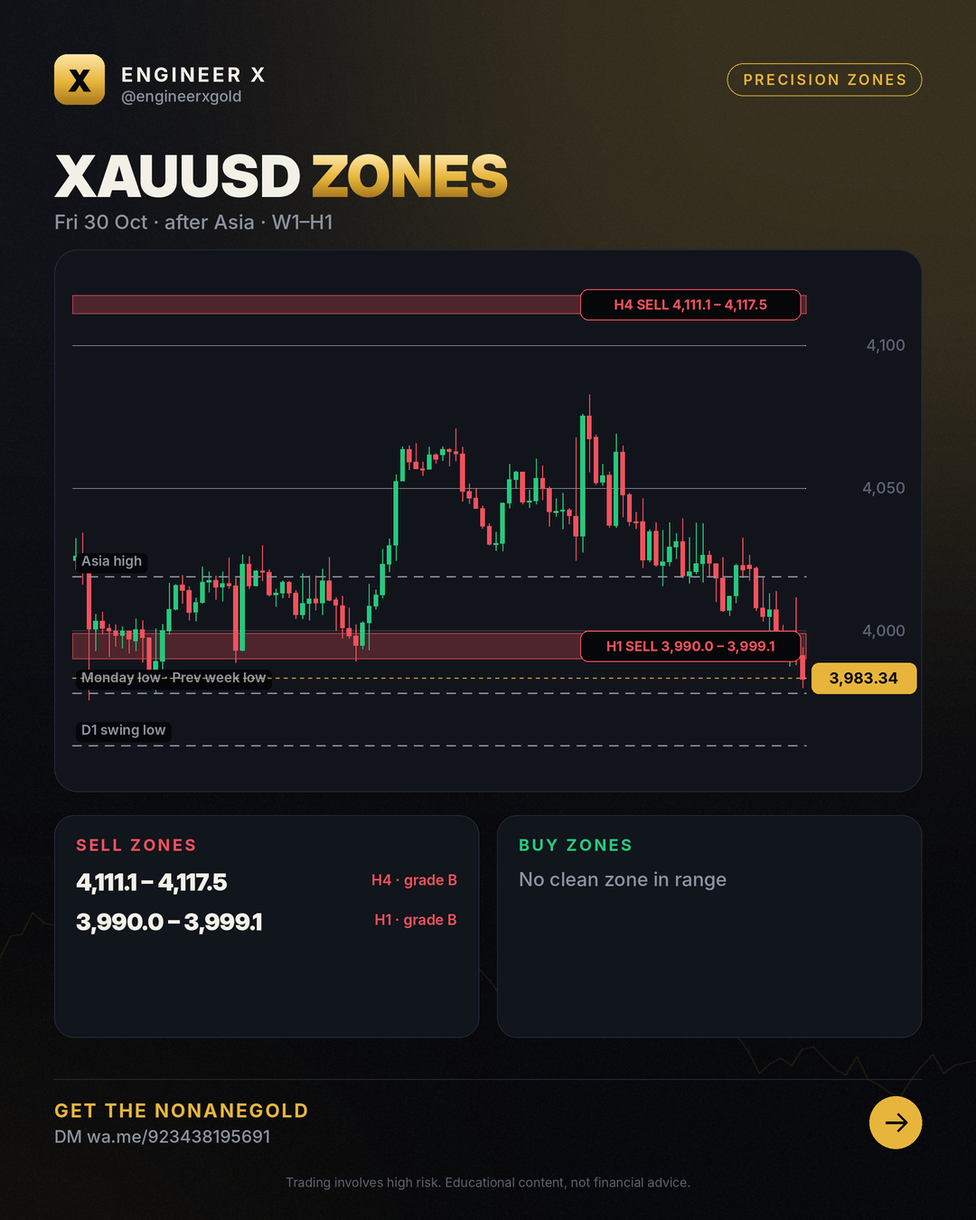
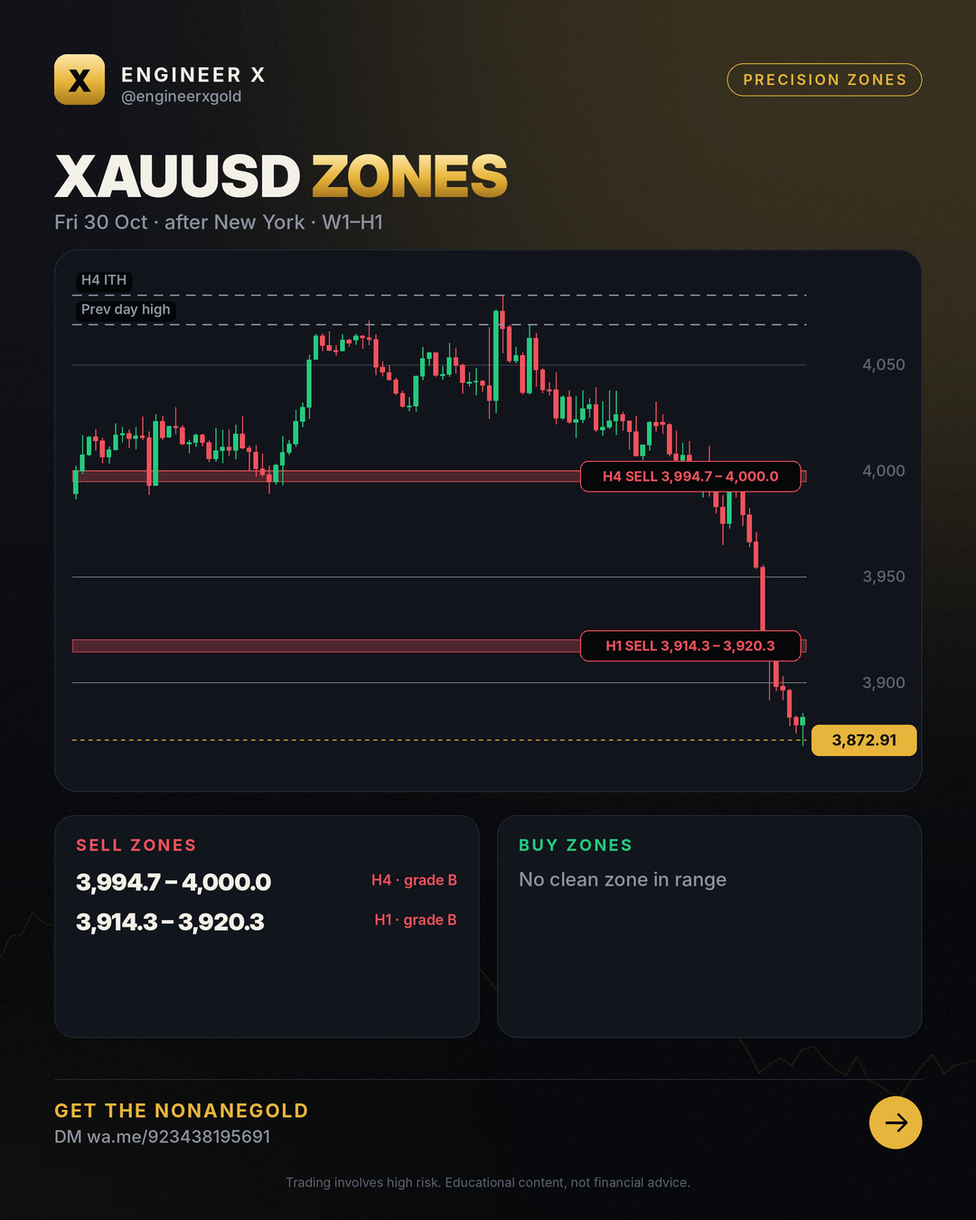
zones 2026-10-30 Fri 30 Oct · after New York · W1–H1

diff --git a/zones/index.html b/zones/index.html
@@ -4,7 +4,7 @@
 <meta charset="utf-8">
 <meta name="viewport" content="width=device-width,initial-scale=1">
 <title>XAUUSD Zones Today – Buy &amp; Sell Zones (H4, H1) | Engineer X</title>
-<meta name="description" content="XAUUSD buy and sell zones for 2026-10-30: tested W1, D1, H4 and H1 zones with invalidation levels, updated after the Asian, London and New York sessions. Price 3,983.34.">
+<meta name="description" content="XAUUSD buy and sell zones for 2026-10-30: tested W1, D1, H4 and H1 zones with invalidation levels, updated after the Asian, London and New York sessions. Price 3,872.91.">
 <meta name="robots" content="index,follow,max-image-preview:large,max-snippet:-1,max-video-preview:-1">
 <meta name="author" content="Engr. M Ahmad Mehmood">
 <link rel="canonical" href="https://engineerxgold.github.io/zones/">
@@ -12,7 +12,7 @@
 <link rel="apple-touch-icon" href="../img/logo.png">
 <meta property="og:site_name" content="Engineer X">
 <meta property="og:title" content="XAUUSD Zones Today – Buy &amp; Sell Zones (H4, H1) | Engineer X">
-<meta property="og:description" content="XAUUSD buy and sell zones for 2026-10-30: tested W1, D1, H4 and H1 zones with invalidation levels, updated after the Asian, London and New York sessions. Price 3,983.34.">
+<meta property="og:description" content="XAUUSD buy and sell zones for 2026-10-30: tested W1, D1, H4 and H1 zones with invalidation levels, updated after the Asian, London and New York sessions. Price 3,872.91.">
 <meta property="og:type" content="website">
 <meta property="og:url" content="https://engineerxgold.github.io/zones/">
 <meta property="og:image" content="https://engineerxgold.github.io/zones/img/2026-10-30.png">
@@ -22,7 +22,7 @@
 <meta property="og:locale" content="en_US">
 <meta name="twitter:card" content="summary_large_image">
 <meta name="twitter:title" content="XAUUSD Zones Today – Buy &amp; Sell Zones (H4, H1) | Engineer X">
-<meta name="twitter:description" content="XAUUSD buy and sell zones for 2026-10-30: tested W1, D1, H4 and H1 zones with invalidation levels, updated after the Asian, London and New York sessions. Price 3,983.34.">
+<meta name="twitter:description" content="XAUUSD buy and sell zones for 2026-10-30: tested W1, D1, H4 and H1 zones with invalidation levels, updated after the Asian, London and New York sessions. Price 3,872.91.">
 <meta name="twitter:image" content="https://engineerxgold.github.io/zones/img/2026-10-30.png">
 <meta name="twitter:image:alt" content="XAUUSD Zones Today – Buy &amp; Sell Zones (H4, H1) | Engineer X">
 
@@ -101,7 +101,7 @@ footer .fl a{color:var(--muted);margin-right:16px}
 <div class="wrap">
 <nav><a class="logo" href="../"><b>X</b>Engineer X</a>
 <div class="links"><a href="../zones/">Daily Zones</a><a href="../blog/">Learn</a><a href="../ea/">Gold EA</a><a href="../about/">About</a><a class="cta" href="https://wa.me/923438195691">Get the EA</a></div></nav>
-<section class="hero"><span class="chip">Updated Fri 30 Oct · after Asia · W1–H1</span><h1>XAUUSD <span class="gold">precision zones</span></h1><p>XAUUSD buy and sell zones for 2026-10-30: tested W1, D1, H4 and H1 zones with invalidation levels, updated after the Asian, London and New York sessions. Price 3,983.34.</p></section><img src="img/2026-10-30.png" alt="Latest XAUUSD zone map" width="1080" height="1350"><section><h2>Current zones</h2><div style="overflow-x:auto"><table style="width:100%;border-collapse:collapse;font-size:15px"><tr><th align=left>Zone</th><th align=left>Price band</th><th>Grade</th><th align=left>Invalid</th><th align=left>Why</th></tr><tr><td>H4 sell</td><td><b>4,111.06 – 4,117.52</b></td><td>B</td><td>above 4,119.03</td><td>MSNR resistance levels (fresh): 4H GAP 4113.34, 1H OCL 4115.24. Wrong if price trades above 4119.03.; Confluence score 2: MSNR + ICT</td></tr><tr><td>H1 sell</td><td><b>3,990.02 – 3,999.06</b></td><td>B</td><td>above 4,000.57</td><td>MSNR resistance levels (fresh): 1H A 3996.78, 30m A 3992.30, 30m OCL 3996.78, 15m A 3992.30. Wrong if price trades above 4000.57.; Confluence score 4: MSNR + IC</td></tr></table></div></section><section><h2>Honest scorecard</h2><div class="grid"><div class="card"><div class="n">210</div><p>zones published (30 days)</p></div><div class="card"><div class="n">110</div><p>held (moved 1 hourly ATR away)</p></div><div class="card"><div class="n">18</div><p>broke (traded beyond the invalidation)</p></div><div class="card"><div class="n">86%</div><p>hold rate of decided zones</p></div></div></section><div class="ctabox"><h3>🤖 Trade the zones with the NonaneGold</h3><p>Free signals group access + setup help Message us and we will help you set it up.</p><div class="btns"><a class="btn gold" href="https://wa.me/923438195691">Get the EA on Telegram</a><a class="btn ghost" href="../ea/">About the EA</a></div></div><section><h2>Archive</h2><div class="grid posts"><a class="card" href="2026-10-30/"><span class="date">2026-10-30</span><h3>XAUUSD zones 2026-10-30</h3></a><a class="card" href="2026-10-29/"><span class="date">2026-10-29</span><h3>XAUUSD zones 2026-10-29</h3></a><a class="card" href="2026-10-28/"><span class="date">2026-10-28</span><h3>XAUUSD zones 2026-10-28</h3></a><a class="card" href="2026-10-27/"><span class="date">2026-10-27</span><h3>XAUUSD zones 2026-10-27</h3></a><a class="card" href="2026-10-26/"><span class="date">2026-10-26</span><h3>XAUUSD zones 2026-10-26</h3></a><a class="card" href="2026-10-23/"><span class="date">2026-10-23</span><h3>XAUUSD zones 2026-10-23</h3></a><a class="card" href="2026-10-22/"><span class="date">2026-10-22</span><h3>XAUUSD zones 2026-10-22</h3></a><a class="card" href="2026-10-21/"><span class="date">2026-10-21</span><h3>XAUUSD zones 2026-10-21</h3></a><a class="card" href="2026-10-20/"><span class="date">2026-10-20</span><h3>XAUUSD zones 2026-10-20</h3></a><a class="card" href="2026-10-19/"><span class="date">2026-10-19</span><h3>XAUUSD zones 2026-10-19</h3></a><a class="card" href="2026-10-16/"><span class="date">2026-10-16</span><h3>XAUUSD zones 2026-10-16</h3></a><a class="card" href="2026-10-15/"><span class="date">2026-10-15</span><h3>XAUUSD zones 2026-10-15</h3></a><a class="card" href="2026-10-14/"><span class="date">2026-10-14</span><h3>XAUUSD zones 2026-10-14</h3></a><a class="card" href="2026-10-13/"><span class="date">2026-10-13</span><h3>XAUUSD zones 2026-10-13</h3></a></div></section>
+<section class="hero"><span class="chip">Updated Fri 30 Oct · after New York · W1–H1</span><h1>XAUUSD <span class="gold">precision zones</span></h1><p>XAUUSD buy and sell zones for 2026-10-30: tested W1, D1, H4 and H1 zones with invalidation levels, updated after the Asian, London and New York sessions. Price 3,872.91.</p></section><img src="img/2026-10-30.png" alt="Latest XAUUSD zone map" width="1080" height="1350"><section><h2>Current zones</h2><div style="overflow-x:auto"><table style="width:100%;border-collapse:collapse;font-size:15px"><tr><th align=left>Zone</th><th align=left>Price band</th><th>Grade</th><th align=left>Invalid</th><th align=left>Why</th></tr><tr><td>H4 sell</td><td><b>3,994.68 – 4,000.04</b></td><td>B</td><td>above 4,001.83</td><td>MSNR resistance level (fresh): 4H A 3997.36. Wrong if price trades above 4001.83.; Confluence score 3: MSNR + ICT + PA</td></tr><tr><td>H1 sell</td><td><b>3,914.27 – 3,920.35</b></td><td>B</td><td>above 3,922.14</td><td>MSNR resistance levels (fresh): 1H GAP 3917.67, 30m A 3917.67, 15m OCL 3916.95, 15m A 3917.67. Wrong if price trades above 3922.14.; Confluence score 2: MSNR + </td></tr></table></div></section><section><h2>Honest scorecard</h2><div class="grid"><div class="card"><div class="n">212</div><p>zones published (30 days)</p></div><div class="card"><div class="n">111</div><p>held (moved 1 hourly ATR away)</p></div><div class="card"><div class="n">18</div><p>broke (traded beyond the invalidation)</p></div><div class="card"><div class="n">86%</div><p>hold rate of decided zones</p></div></div></section><div class="ctabox"><h3>🤖 Trade the zones with the NonaneGold</h3><p>Free signals group access + setup help Message us and we will help you set it up.</p><div class="btns"><a class="btn gold" href="https://wa.me/923438195691">Get the EA on Telegram</a><a class="btn ghost" href="../ea/">About the EA</a></div></div><section><h2>Archive</h2><div class="grid posts"><a class="card" href="2026-10-30/"><span class="date">2026-10-30</span><h3>XAUUSD zones 2026-10-30</h3></a><a class="card" href="2026-10-29/"><span class="date">2026-10-29</span><h3>XAUUSD zones 2026-10-29</h3></a><a class="card" href="2026-10-28/"><span class="date">2026-10-28</span><h3>XAUUSD zones 2026-10-28</h3></a><a class="card" href="2026-10-27/"><span class="date">2026-10-27</span><h3>XAUUSD zones 2026-10-27</h3></a><a class="card" href="2026-10-26/"><span class="date">2026-10-26</span><h3>XAUUSD zones 2026-10-26</h3></a><a class="card" href="2026-10-23/"><span class="date">2026-10-23</span><h3>XAUUSD zones 2026-10-23</h3></a><a class="card" href="2026-10-22/"><span class="date">2026-10-22</span><h3>XAUUSD zones 2026-10-22</h3></a><a class="card" href="2026-10-21/"><span class="date">2026-10-21</span><h3>XAUUSD zones 2026-10-21</h3></a><a class="card" href="2026-10-20/"><span class="date">2026-10-20</span><h3>XAUUSD zones 2026-10-20</h3></a><a class="card" href="2026-10-19/"><span class="date">2026-10-19</span><h3>XAUUSD zones 2026-10-19</h3></a><a class="card" href="2026-10-16/"><span class="date">2026-10-16</span><h3>XAUUSD zones 2026-10-16</h3></a><a class="card" href="2026-10-15/"><span class="date">2026-10-15</span><h3>XAUUSD zones 2026-10-15</h3></a><a class="card" href="2026-10-14/"><span class="date">2026-10-14</span><h3>XAUUSD zones 2026-10-14</h3></a><a class="card" href="2026-10-13/"><span class="date">2026-10-13</span><h3>XAUUSD zones 2026-10-13</h3></a></div></section>
 <footer>
 <div class="warn"><b>Risk warning:</b> Trading gold, forex and CFDs carries a high risk of losing money and is not suitable for everyone. Past results do not guarantee future results. Everything on this site is educational and not financial advice. We are an introducing partner of our broker and may earn a commission on accounts opened through our link.</div>
 <p class="fl" style="margin-top:18px"><a href="../about/">About &amp; methodology</a><a href="../privacy.html">Privacy</a><a href="../terms.html">Terms &amp; risk disclosure</a><a href="../feed.xml">RSS</a><a href="https://t.me/engineerxgold">Telegram</a></p>

diff --git a/zones/2026-10-30/index.html b/zones/2026-10-30/index.html
@@ -4,7 +4,7 @@
 <meta charset="utf-8">
 <meta name="viewport" content="width=device-width,initial-scale=1">
 <title>Gold Price Today – 30 Oct 2026 (W1–H1)</title>
-<meta name="description" content="XAUUSD buy and sell zones for 2026-10-30: tested W1, D1, H4 and H1 zones with invalidation levels, updated after the Asian, London and New York sessions. Price 3,983.34.">
+<meta name="description" content="XAUUSD buy and sell zones for 2026-10-30: tested W1, D1, H4 and H1 zones with invalidation levels, updated after the Asian, London and New York sessions. Price 3,872.91.">
 <meta name="robots" content="index,follow,max-image-preview:large,max-snippet:-1,max-video-preview:-1">
 <meta name="author" content="Engr. M Ahmad Mehmood">
 <link rel="canonical" href="https://engineerxgold.github.io/zones/2026-10-30/">
@@ -12,7 +12,7 @@
 <link rel="apple-touch-icon" href="../../img/logo.png">
 <meta property="og:site_name" content="Engineer X">
 <meta property="og:title" content="Gold Price Today – 30 Oct 2026 (W1–H1)">
-<meta property="og:description" content="XAUUSD buy and sell zones for 2026-10-30: tested W1, D1, H4 and H1 zones with invalidation levels, updated after the Asian, London and New York sessions. Price 3,983.34.">
+<meta property="og:description" content="XAUUSD buy and sell zones for 2026-10-30: tested W1, D1, H4 and H1 zones with invalidation levels, updated after the Asian, London and New York sessions. Price 3,872.91.">
 <meta property="og:type" content="article">
 <meta property="og:url" content="https://engineerxgold.github.io/zones/2026-10-30/">
 <meta property="og:image" content="https://engineerxgold.github.io/zones/img/2026-10-30.png">
@@ -22,7 +22,7 @@
 <meta property="og:locale" content="en_US">
 <meta name="twitter:card" content="summary_large_image">
 <meta name="twitter:title" content="Gold Price Today – 30 Oct 2026 (W1–H1)">
-<meta name="twitter:description" content="XAUUSD buy and sell zones for 2026-10-30: tested W1, D1, H4 and H1 zones with invalidation levels, updated after the Asian, London and New York sessions. Price 3,983.34.">
+<meta name="twitter:description" content="XAUUSD buy and sell zones for 2026-10-30: tested W1, D1, H4 and H1 zones with invalidation levels, updated after the Asian, London and New York sessions. Price 3,872.91.">
 <meta name="twitter:image" content="https://engineerxgold.github.io/zones/img/2026-10-30.png">
 <meta name="twitter:image:alt" content="Gold Price Today – 30 Oct 2026 (W1–H1)">
 
@@ -32,7 +32,7 @@
 <link rel="preconnect" href="https://fonts.googleapis.com">
 <link rel="preconnect" href="https://fonts.gstatic.com" crossorigin>
 <link href="https://fonts.googleapis.com/css2?family=Inter:wght@400;500;600;800;900&display=swap" rel="stylesheet">
-<script type="application/ld+json">{"@context": "https://schema.org", "@type": "Organization", "@id": "https://engineerxgold.github.io/#organization", "name": "Engineer X", "url": "https://engineerxgold.github.io/", "logo": {"@type": "ImageObject", "url": "https://engineerxgold.github.io/img/logo.png", "width": 512, "height": 512}, "sameAs": ["https://t.me/engineerxgold"]}</script><script type="application/ld+json">{"@context": "https://schema.org", "@type": "Article", "headline": "Gold Price Today – 30 Oct 2026 (W1–H1)", "datePublished": "2026-10-30T08:00:00+05:00", "dateModified": "2026-10-30T12:04:19+05:00", "author": {"@type": "Person", "@id": "https://engineerxgold.github.io/about/#author", "name": "Engr. M Ahmad Mehmood", "url": "https://engineerxgold.github.io/about/", "jobTitle": "MQL5 Expert Advisor developer and gold market analyst", "worksFor": {"@id": "https://engineerxgold.github.io/#organization"}}, "publisher": {"@id": "https://engineerxgold.github.io/#organization"}, "image": "https://engineerxgold.github.io/zones/img/2026-10-30.png", "mainEntityOfPage": "https://engineerxgold.github.io/zones/2026-10-30/"}</script>
+<script type="application/ld+json">{"@context": "https://schema.org", "@type": "Organization", "@id": "https://engineerxgold.github.io/#organization", "name": "Engineer X", "url": "https://engineerxgold.github.io/", "logo": {"@type": "ImageObject", "url": "https://engineerxgold.github.io/img/logo.png", "width": 512, "height": 512}, "sameAs": ["https://t.me/engineerxgold"]}</script><script type="application/ld+json">{"@context": "https://schema.org", "@type": "Article", "headline": "Gold Price Today – 30 Oct 2026 (W1–H1)", "datePublished": "2026-10-30T08:00:00+05:00", "dateModified": "2026-10-31T02:03:04+05:00", "author": {"@type": "Person", "@id": "https://engineerxgold.github.io/about/#author", "name": "Engr. M Ahmad Mehmood", "url": "https://engineerxgold.github.io/about/", "jobTitle": "MQL5 Expert Advisor developer and gold market analyst", "worksFor": {"@id": "https://engineerxgold.github.io/#organization"}}, "publisher": {"@id": "https://engineerxgold.github.io/#organization"}, "image": "https://engineerxgold.github.io/zones/img/2026-10-30.png", "mainEntityOfPage": "https://engineerxgold.github.io/zones/2026-10-30/"}</script>
 
 <style>
 :root{--gold:#E7B53B;--gold-hi:#FFE7A8;--bg:#07080B;--bg2:#0E1016;--panel:#12151D;--line:#232836;--green:#25C97D;--red:#F0525C;--text:#F3F0E8;--muted:#8C93A1}
@@ -101,7 +101,7 @@ footer .fl a{color:var(--muted);margin-right:16px}
 <div class="wrap">
 <nav><a class="logo" href="../../"><b>X</b>Engineer X</a>
 <div class="links"><a href="../../zones/">Daily Zones</a><a href="../../blog/">Learn</a><a href="../../ea/">Gold EA</a><a href="../../about/">About</a><a class="cta" href="https://wa.me/923438195691">Get the EA</a></div></nav>
-<article><p class="crumbs"><a href="../../">Home</a> › <a href="../">Zones</a> › 2026-10-30</p><h1>Gold Price Today – 30 Oct 2026 (W1–H1)</h1><p class="byline">Fri 30 Oct · after Asia · W1–H1 · by Engr. M Ahmad Mehmood</p><img src="../img/2026-10-30.png" alt="XAUUSD zone map 2026-10-30" width="1080" height="1350" loading="eager"><h2>Zones</h2><div style="overflow-x:auto"><table style="width:100%;border-collapse:collapse;font-size:15px"><tr><th align=left>Zone</th><th align=left>Price band</th><th>Grade</th><th align=left>Invalid</th><th align=left>Why</th></tr><tr><td>H4 sell</td><td><b>4,111.06 – 4,117.52</b></td><td>B</td><td>above 4,119.03</td><td>MSNR resistance levels (fresh): 4H GAP 4113.34, 1H OCL 4115.24. Wrong if price trades above 4119.03.; Confluence score 2: MSNR + ICT</td></tr><tr><td>H1 sell</td><td><b>3,990.02 – 3,999.06</b></td><td>B</td><td>above 4,000.57</td><td>MSNR resistance levels (fresh): 1H A 3996.78, 30m A 3992.30, 30m OCL 3996.78, 15m A 3992.30. Wrong if price trades above 4000.57.; Confluence score 4: MSNR + IC</td></tr></table></div><h2>How to read this map</h2><p>Bands are where price is expected to react; they are not entries. Trading beyond the invalidation price ends the zone; each zone counts once (first touch). Highs and lows listed as liquidity are targets: on 10 years of gold price ran through them more often than through random levels.</p><div class="ctabox"><h3>🤖 Trade the zones with the NonaneGold</h3><p>Free signals group access + setup help Message us and we will help you set it up.</p><div class="btns"><a class="btn gold" href="https://wa.me/923438195691">Get the EA on Telegram</a><a class="btn ghost" href="../../ea/">About the EA</a></div></div></article>
+<article><p class="crumbs"><a href="../../">Home</a> › <a href="../">Zones</a> › 2026-10-30</p><h1>Gold Price Today – 30 Oct 2026 (W1–H1)</h1><p class="byline">Fri 30 Oct · after New York · W1–H1 · by Engr. M Ahmad Mehmood</p><img src="../img/2026-10-30.png" alt="XAUUSD zone map 2026-10-30" width="1080" height="1350" loading="eager"><h2>Zones</h2><div style="overflow-x:auto"><table style="width:100%;border-collapse:collapse;font-size:15px"><tr><th align=left>Zone</th><th align=left>Price band</th><th>Grade</th><th align=left>Invalid</th><th align=left>Why</th></tr><tr><td>H4 sell</td><td><b>3,994.68 – 4,000.04</b></td><td>B</td><td>above 4,001.83</td><td>MSNR resistance level (fresh): 4H A 3997.36. Wrong if price trades above 4001.83.; Confluence score 3: MSNR + ICT + PA</td></tr><tr><td>H1 sell</td><td><b>3,914.27 – 3,920.35</b></td><td>B</td><td>above 3,922.14</td><td>MSNR resistance levels (fresh): 1H GAP 3917.67, 30m A 3917.67, 15m OCL 3916.95, 15m A 3917.67. Wrong if price trades above 3922.14.; Confluence score 2: MSNR + </td></tr></table></div><h2>How to read this map</h2><p>Bands are where price is expected to react; they are not entries. Trading beyond the invalidation price ends the zone; each zone counts once (first touch). Highs and lows listed as liquidity are targets: on 10 years of gold price ran through them more often than through random levels.</p><div class="ctabox"><h3>🤖 Trade the zones with the NonaneGold</h3><p>Free signals group access + setup help Message us and we will help you set it up.</p><div class="btns"><a class="btn gold" href="https://wa.me/923438195691">Get the EA on Telegram</a><a class="btn ghost" href="../../ea/">About the EA</a></div></div></article>
 <footer>
 <div class="warn"><b>Risk warning:</b> Trading gold, forex and CFDs carries a high risk of losing money and is not suitable for everyone. Past results do not guarantee future results. Everything on this site is educational and not financial advice. We are an introducing partner of our broker and may earn a commission on accounts opened through our link.</div>
 <p class="fl" style="margin-top:18px"><a href="../../about/">About &amp; methodology</a><a href="../../privacy.html">Privacy</a><a href="../../terms.html">Terms &amp; risk disclosure</a><a href="../../feed.xml">RSS</a><a href="https://t.me/engineerxgold">Telegram</a></p>

diff --git a/index.html b/index.html
@@ -101,7 +101,7 @@ footer .fl a{color:var(--muted);margin-right:16px}
 <div class="wrap">
 <nav><a class="logo" href="./"><b>X</b>Engineer X</a>
 <div class="links"><a href="./zones/">Daily Zones</a><a href="./blog/">Learn</a><a href="./ea/">Gold EA</a><a href="./about/">About</a><a class="cta" href="https://wa.me/923438195691">Get the EA</a></div></nav>
-<section class="hero"><span class="chip">XAUUSD · W1–H1 · every session</span><h1>Gold <span class="gold">precision zones</span>, updated after every session</h1><p>Tested buy and sell zones with clear invalidation, a scorecard of every result, and the NonaneGold for traders who want it automated.</p><div class="btns"><a class="btn gold" href="zones/">See today's zones</a><a class="btn ghost" href="https://wa.me/923438195691">Get the EA</a></div></section><section><h2>Latest map Fri 30 Oct · after Asia · W1–H1</h2><img src="zones/img/2026-10-30.png" alt="Latest XAUUSD zones" width="1080" height="1350"></section><div class="ctabox"><h3>🤖 Trade the zones with the NonaneGold</h3><p>Free signals group access + setup help Message us and we will help you set it up.</p><div class="btns"><a class="btn gold" href="https://wa.me/923438195691">Get the EA on Telegram</a><a class="btn ghost" href="ea/">About the EA</a></div></div><section><h2>Learn</h2><div class="grid posts"><a class="card" href="blog/gold-price-today-live-technical-levels-zone-map/"><span class="date">2026-10-30</span><h3>Gold Price Today: Live Technical Levels &amp; Zone Map</h3></a><a class="card" href="blog/gold-trading-h4-trend-zones-liquidity-map/"><span class="date">2026-10-29</span><h3>Gold Trading: H4 Trend Zones &amp; Liquidity Map</h3></a><a class="card" href="blog/gold-trading-analyzing-today-s-zones-liquidity/"><span class="date">2026-10-28</span><h3>Gold Trading: Analyzing Today&#x27;s Zones &amp; Liquidity</h3></a><a class="card" href="blog/xauusd-analysis-key-gold-trading-zones-liquidity/"><span class="date">2026-10-27</span><h3>XAUUSD Analysis: Key Gold Trading Zones &amp; Liquidity</h3></a><a class="card" href="blog/gold-supply-and-demand-zones-for-xauusd-traders/"><span class="date">2026-10-26</span><h3>Gold supply and demand zones for XAUUSD traders</h3></a><a class="card" href="blog/xauusd-price-navigating-key-zones-and-liquidity/"><span class="date">2026-10-24</span><h3>xauusd price: Navigating Key Zones and Liquidity</h3></a></div></section><section><h2>FAQ</h2><details><summary>What is a precision zone?</summary><p>A point of interest from a trading book (OTE 0.705, balanced price range, weekly close level, daily order block) that held better than random levels on 10 years of gold. Each zone has an invalidation price.</p></details><details><summary>How often are the zones updated?</summary><p>A daily plan at the Asian open, then after the Asian, London and New York sessions.</p></details><details><summary>Are these trade signals?</summary><p>No. Zones are areas to watch. Wait for your own confirmation and manage risk.</p></details><details><summary>How do I get the Gold EA?</summary><p>Message us on Telegram or WhatsApp; we answer and help with the setup.</p></details></section>
+<section class="hero"><span class="chip">XAUUSD · W1–H1 · every session</span><h1>Gold <span class="gold">precision zones</span>, updated after every session</h1><p>Tested buy and sell zones with clear invalidation, a scorecard of every result, and the NonaneGold for traders who want it automated.</p><div class="btns"><a class="btn gold" href="zones/">See today's zones</a><a class="btn ghost" href="https://wa.me/923438195691">Get the EA</a></div></section><section><h2>Latest map Fri 30 Oct · after New York · W1–H1</h2><img src="zones/img/2026-10-30.png" alt="Latest XAUUSD zones" width="1080" height="1350"></section><div class="ctabox"><h3>🤖 Trade the zones with the NonaneGold</h3><p>Free signals group access + setup help Message us and we will help you set it up.</p><div class="btns"><a class="btn gold" href="https://wa.me/923438195691">Get the EA on Telegram</a><a class="btn ghost" href="ea/">About the EA</a></div></div><section><h2>Learn</h2><div class="grid posts"><a class="card" href="blog/gold-price-today-live-technical-levels-zone-map/"><span class="date">2026-10-30</span><h3>Gold Price Today: Live Technical Levels &amp; Zone Map</h3></a><a class="card" href="blog/gold-trading-h4-trend-zones-liquidity-map/"><span class="date">2026-10-29</span><h3>Gold Trading: H4 Trend Zones &amp; Liquidity Map</h3></a><a class="card" href="blog/gold-trading-analyzing-today-s-zones-liquidity/"><span class="date">2026-10-28</span><h3>Gold Trading: Analyzing Today&#x27;s Zones &amp; Liquidity</h3></a><a class="card" href="blog/xauusd-analysis-key-gold-trading-zones-liquidity/"><span class="date">2026-10-27</span><h3>XAUUSD Analysis: Key Gold Trading Zones &amp; Liquidity</h3></a><a class="card" href="blog/gold-supply-and-demand-zones-for-xauusd-traders/"><span class="date">2026-10-26</span><h3>Gold supply and demand zones for XAUUSD traders</h3></a><a class="card" href="blog/xauusd-price-navigating-key-zones-and-liquidity/"><span class="date">2026-10-24</span><h3>xauusd price: Navigating Key Zones and Liquidity</h3></a></div></section><section><h2>FAQ</h2><details><summary>What is a precision zone?</summary><p>A point of interest from a trading book (OTE 0.705, balanced price range, weekly close level, daily order block) that held better than random levels on 10 years of gold. Each zone has an invalidation price.</p></details><details><summary>How often are the zones updated?</summary><p>A daily plan at the Asian open, then after the Asian, London and New York sessions.</p></details><details><summary>Are these trade signals?</summary><p>No. Zones are areas to watch. Wait for your own confirmation and manage risk.</p></details><details><summary>How do I get the Gold EA?</summary><p>Message us on Telegram or WhatsApp; we answer and help with the setup.</p></details></section>
 <footer>
 <div class="warn"><b>Risk warning:</b> Trading gold, forex and CFDs carries a high risk of losing money and is not suitable for everyone. Past results do not guarantee future results. Everything on this site is educational and not financial advice. We are an introducing partner of our broker and may earn a commission on accounts opened through our link.</div>
 <p class="fl" style="margin-top:18px"><a href="./about/">About &amp; methodology</a><a href="./privacy.html">Privacy</a><a href="./terms.html">Terms &amp; risk disclosure</a><a href="./feed.xml">RSS</a><a href="https://t.me/engineerxgold">Telegram</a></p>
